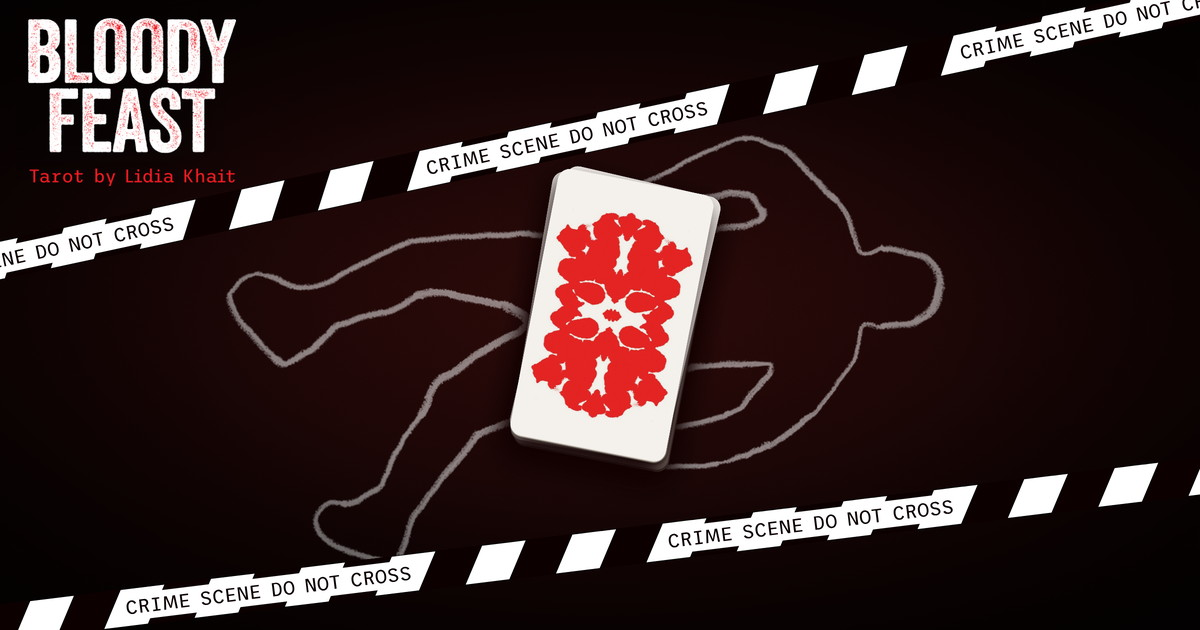
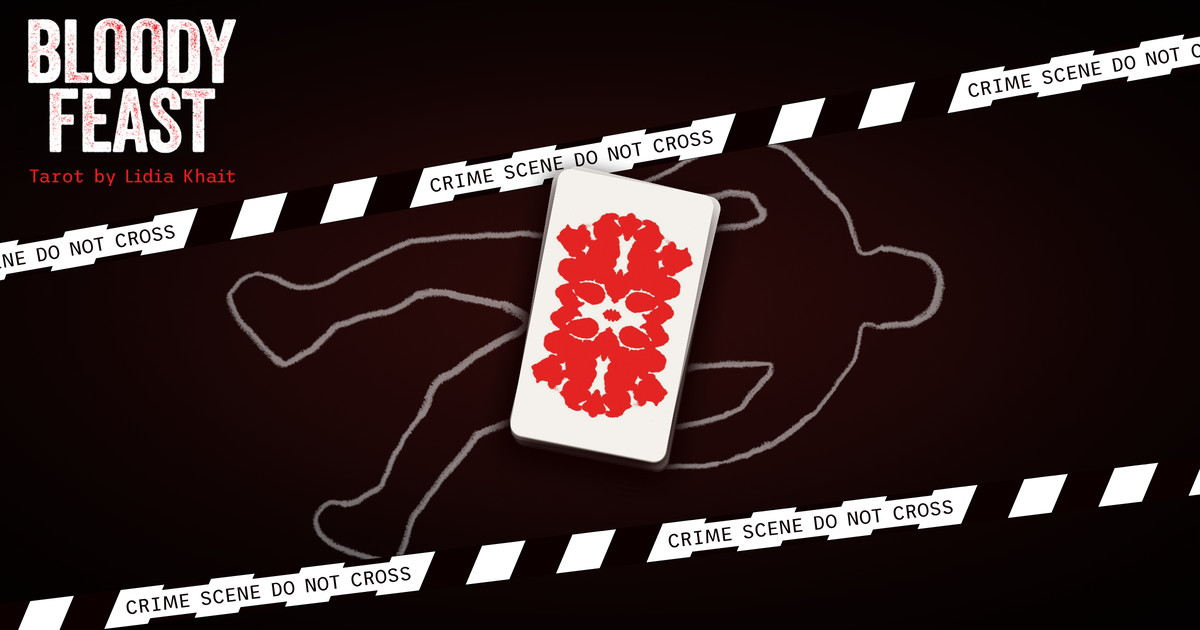
Cursor: ease the top crime-scene tape so it rises a little less steeply.

Changed region(s): [[0.0, 0.0, 1.0, 0.4524]]

diff --git a/index.html b/index.html
@@ -13,7 +13,7 @@
 <meta property="og:url" content="https://lidkin.github.io/bloody-tarot/">
 <meta property="og:title" content="Bloody Feast Tarot — хочешь знать?">
 <meta property="og:description" content="Карта дня и расклад на три карты из колоды Лидии Хаит. Card of the day and a three-card spread.">
-<meta property="og:image" content="https://lidkin.github.io/bloody-tarot/og-image.jpg?v=7">
+<meta property="og:image" content="https://lidkin.github.io/bloody-tarot/og-image.jpg?v=8">
 <meta property="og:image:width" content="1200">
 <meta property="og:image:height" content="630">
 <meta name="twitter:card" content="summary_large_image">
